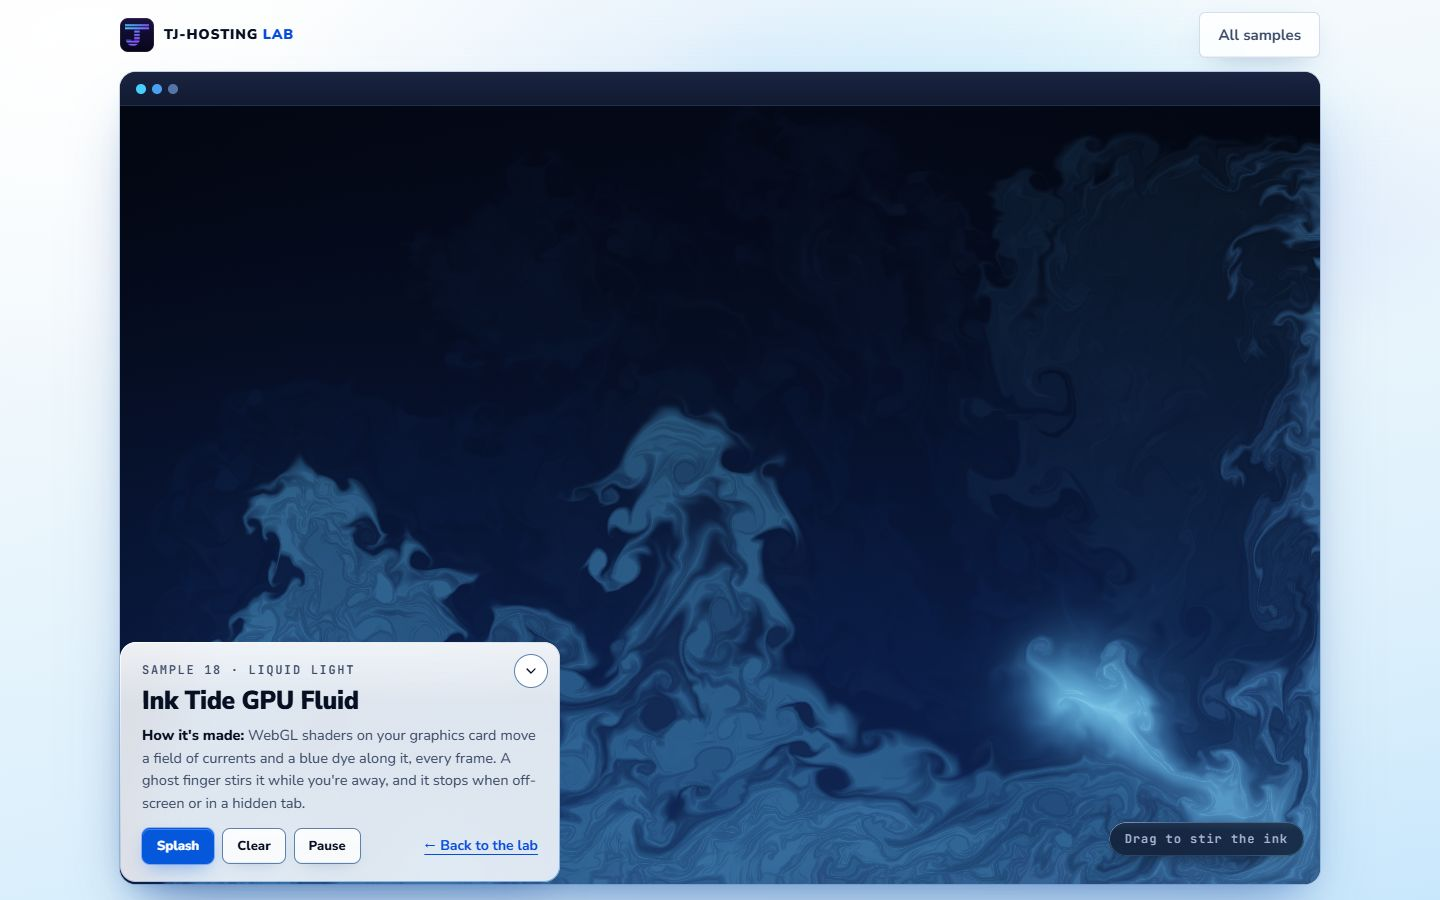
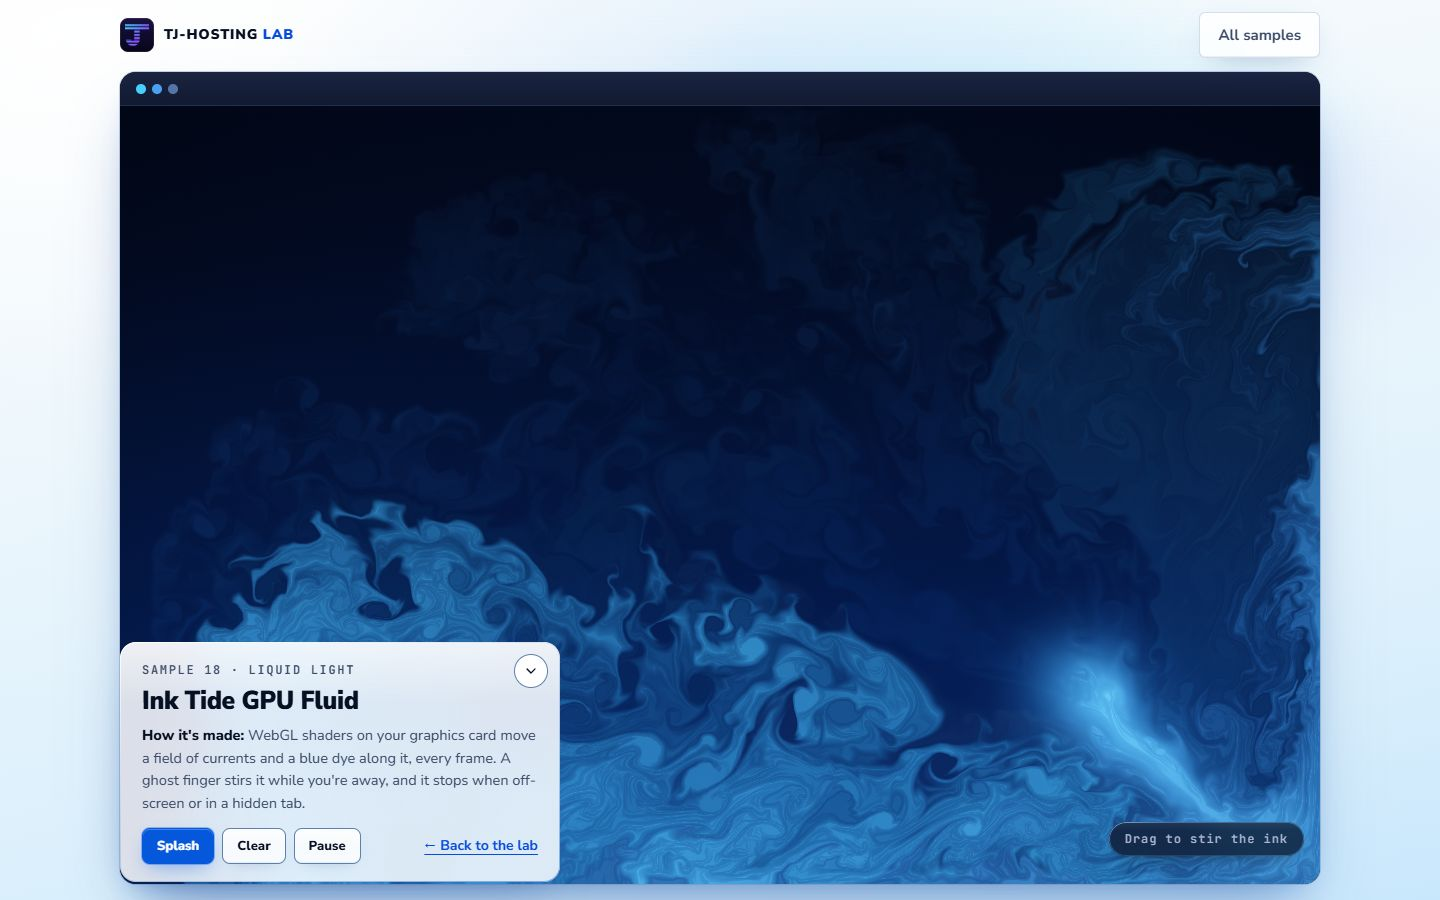
improve(lab-05): S15 brighter, bluer dye instead of a steel wash
Dye colours lean azure to cyan with white more often, gain 0.16 (was 0.13), a stronger tone curve and a saturation lift in the display shader. Re-gated: PASS.

diff --git a/samples/gpu-fluid/piece.js b/samples/gpu-fluid/piece.js
@@ -80,10 +80,11 @@ function ramp(u) {
 	return { r: a[0] + (b[0] - a[0]) * f, g: a[1] + (b[1] - a[1]) * f, b: a[2] + (b[2] - a[2]) * f };
 }
 
-/* a random dye colour: mostly royal to cyan, white now and then; brightness as the source's 0.15 splat */
-const DYE_GAIN = 0.13;
+/* a random dye colour: mostly azure to cyan, royal and white now and then; a little brighter than the source's 0.15
+   splat after the saturation lift in the display */
+const DYE_GAIN = 0.16;
 function dyeColor(rnd, gain = DYE_GAIN) {
-	const u = rnd() < 0.08 ? 0.86 + rnd() * 0.14 : rnd() * 0.52;
+	const u = rnd() < 0.1 ? 0.86 + rnd() * 0.14 : 0.12 + rnd() * 0.58;
 	const c = ramp(u);
 	return { r: c.r * gain, g: c.g * gain, b: c.b * gain };
 }
@@ -292,7 +293,10 @@ function createFluid(cnv, preserve) {
 			vec3 ground = mix(low, top, smoothstep(0.0, 1.0, vUv.y));
 			ground *= 1.0 - 0.4 * smoothstep(0.35, 0.95, distance(vUv, vec2(0.5)));
 
-			vec3 col = vec3(1.0) - (vec3(1.0) - ground) * exp(-c * 2.0);
+			vec3 col = vec3(1.0) - (vec3(1.0) - ground) * exp(-c * 2.4);
+			// lift the saturation the tone curve washes out, so thin dye reads as light, not steel
+			float luma = dot(col, vec3(0.2126, 0.7152, 0.0722));
+			col = clamp(mix(vec3(luma), col, 1.35), 0.0, 1.0);
 			col += (hash(gl_FragCoord.xy) - 0.5) / 255.0;
 			gl_FragColor = vec4(col, 1.0);
 		}`;

diff --git a/evidence/lab-05/samples/gpu-fluid/check.md b/evidence/lab-05/samples/gpu-fluid/check.md
@@ -1,35 +1,35 @@
 # check-sample: gpu-fluid — PASS
 
-2026-10-28T03:42:29.027Z · Chromium WebGL: ANGLE (AMD, AMD Radeon (TM) Graphics (0x000015E7) Direct3D11 vs_5_0 ps_5_0, D3D11) · Firefox: not run (browserType.launch: spawn UNKNOWN)
+2026-10-28T06:02:56.881Z · Chromium WebGL: ANGLE (AMD, AMD Radeon (TM) Graphics (0x000015E7) Direct3D11 vs_5_0 ps_5_0, D3D11) · Firefox: not run (browserType.launch: spawn UNKNOWN)
 
 ## Notes
 - loads 8 local files: samples/gpu-fluid/index.html, css/glass.css, css/lab.css, css/sample.css, samples/gpu-fluid/piece.css, js/early.js, samples/gpu-fluid/piece.js, js/lab.js
 - Chromium 141.0.7390.37, WebGL renderer: ANGLE (AMD, AMD Radeon (TM) Graphics (0x000015E7) Direct3D11 vs_5_0 ps_5_0, D3D11)
-- frame time: median 16.7 ms, p95 16.7 ms at 1440
+- frame time: median 16.7 ms, p95 16.8 ms at 1440
 - Firefox: not run (browserType.launch: spawn UNKNOWN)
 
 ## Motion
 - reduced motion: {"anims":[],"loops":[],"rafPerSecond":0}
 - hidden tab: {"movingBefore":true,"hiddenRafIn1500ms":0,"hiddenAnims":[],"hiddenLoops":[],"resumed":true}
-- frame time: {"median":16.7,"p95":16.7,"frames":301} (gpu GL)
+- frame time: {"median":16.7,"p95":16.8,"frames":301} (gpu GL)
 
 ## Shell contrast (Chromium)
 width | selector | # | polarity | text | worst behind | ratio | need
 ---|---|---|---|---|---|---|---
-1440 | .sample-info .eyebrow | 0 | dark | rgb(59, 74, 102) | rgb(227, 229, 235) | 7.07 | 4.5
-1440 | .sample-info h1 | 0 | dark | rgb(7, 16, 34) | rgb(219, 222, 229) | 14.09 | 3
-1440 | .sample-info .how | 0 | dark | rgb(59, 74, 102) | rgb(218, 221, 230) | 6.56 | 4.5
-1440 | .controls .back | 0 | dark | rgb(6, 75, 219) | rgb(219, 226, 234) | 5.29 | 4.5
+1440 | .sample-info .eyebrow | 0 | dark | rgb(59, 74, 102) | rgb(227, 229, 237) | 7.08 | 4.5
+1440 | .sample-info h1 | 0 | dark | rgb(7, 16, 34) | rgb(219, 222, 232) | 14.12 | 3
+1440 | .sample-info .how | 0 | dark | rgb(59, 74, 102) | rgb(218, 222, 231) | 6.61 | 4.5
+1440 | .controls .back | 0 | dark | rgb(6, 75, 219) | rgb(218, 227, 238) | 5.34 | 4.5
 1440 | .controls .btn | 0 | light | rgb(255, 255, 255) | rgb(5, 88, 220) | 6.11 | 4.5
 1440 | .controls .btn | 1 | dark | rgb(7, 16, 34) | rgb(247, 248, 249) | 17.85 | 4.5
-1440 | .controls .btn | 2 | dark | rgb(7, 16, 34) | rgb(247, 248, 249) | 17.85 | 4.5
-1440 | .hint | 0 | light | rgb(170, 184, 210) | rgb(27, 49, 77) | 6.59 | 4.5
-375 | .sample-info .eyebrow | 0 | dark | rgb(59, 74, 102) | rgb(230, 233, 239) | 7.32 | 4.5
-375 | .sample-info h1 | 0 | dark | rgb(7, 16, 34) | rgb(221, 226, 235) | 14.60 | 3
-375 | .sample-info .how | 0 | dark | rgb(59, 74, 102) | rgb(219, 225, 232) | 6.76 | 4.5
-375 | .controls .back | 0 | dark | rgb(6, 75, 219) | rgb(220, 226, 234) | 5.30 | 4.5
+1440 | .controls .btn | 2 | dark | rgb(7, 16, 34) | rgb(247, 248, 250) | 17.86 | 4.5
+1440 | .hint | 0 | light | rgb(170, 184, 210) | rgb(28, 61, 86) | 5.67 | 4.5
+375 | .sample-info .eyebrow | 0 | dark | rgb(59, 74, 102) | rgb(230, 234, 241) | 7.38 | 4.5
+375 | .sample-info h1 | 0 | dark | rgb(7, 16, 34) | rgb(220, 227, 238) | 14.70 | 3
+375 | .sample-info .how | 0 | dark | rgb(59, 74, 102) | rgb(218, 225, 235) | 6.77 | 4.5
+375 | .controls .back | 0 | dark | rgb(6, 75, 219) | rgb(217, 224, 238) | 5.22 | 4.5
 375 | .controls .btn | 0 | light | rgb(255, 255, 255) | rgb(5, 88, 220) | 6.11 | 4.5
-375 | .controls .btn | 1 | dark | rgb(7, 16, 34) | rgb(247, 249, 252) | 18.00 | 4.5
+375 | .controls .btn | 1 | dark | rgb(7, 16, 34) | rgb(247, 249, 251) | 17.99 | 4.5
 375 | .controls .btn | 2 | dark | rgb(7, 16, 34) | rgb(247, 249, 251) | 17.99 | 4.5
 
 Screenshots: chromium-1440.jpg, chromium-375.jpg, reduced-1440.jpg (sheet.jpg: all of them, not committed).

diff --git a/TASKS-lab-05.md b/TASKS-lab-05.md
@@ -145,7 +145,7 @@ None yet.
 
 - [P4] "How it's made" notes too long (about seven lines at 375): S16, S06, S01, S03, S22, S07. Trim to two sentences. The builder brief now says so (§8a). **Done 05:45Z**: all six now 35-43 words (were 50-60); copy only, re-checked in the P7 full suite.
 - [P4] Titles: builders wrote Title Case ("Coral Ink Reactor"); the Lab uses sentence case ("Particle field"). Normalise every new sample's h1, `<title>`, og:title and samples.json title in one sweep.
-- [P5] S15: the dye reads murky steel-blue on navy; raise saturation and brightness toward cyan, azure and white so it reads as "liquid light".
+- [P5] S15: the dye reads murky steel-blue on navy; raise saturation and brightness toward cyan, azure and white so it reads as "liquid light". **Done 06:03Z**: dye picks mostly azure to cyan (white more often), gain 0.16 (was 0.13), tone curve 2.4 (was 2.0) and a 1.35 saturation lift in the display shader; re-gated.
 - [P4] S44: "How it's made" says "a pose table I drew"; page copy speaks for the Lab, not a builder ("a pose table drawn for each digit"). **Done 05:46Z**; no other first-person page copy found (grep).
 - [P5] S44: idle clocks show cyan hands at an angle that compete with the digits; dim or park the hands of clocks that are not part of a digit so the time reads at a glance.
 - [P5] C28 (skill chips card) looked like capsule pills; queued C28b (rounded glass tags).
